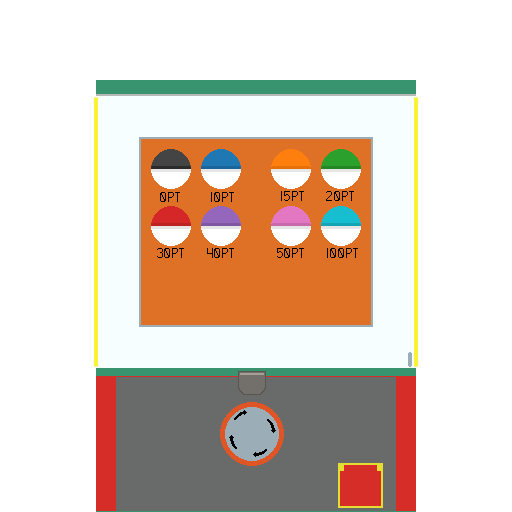
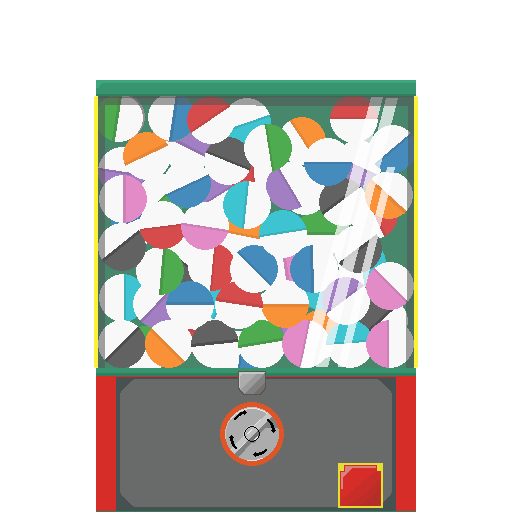
Added Gachapon instead of wheel

Changed region(s): [[0.1875, 0.1562, 0.8125, 1.0], [0.6562, 0.9062, 0.7188, 0.9375]]

diff --git a/TheAirConHubMobileApp/TheAirConHubFrontend/src/components/games/GachaponGame.js b/TheAirConHubMobileApp/TheAirConHubFrontend/src/components/games/GachaponGame.js
@@ -1,92 +1,157 @@
 import React, { useState, useRef } from "react";
-import { View, Text, TouchableOpacity, Image, StyleSheet, Animated } from "react-native";
-import { RotateCcw } from "lucide-react-native";
-import { styles as appStyles } from "../../styles/AppStyles";
+import {
+  View,
+  Text,
+  TouchableOpacity,
+  Image,
+  StyleSheet,
+  Animated,
+  Easing,
+  Platform,
+  Dimensions
+} from "react-native";
 
-// Map values to your specific GIF files
+const screenWidth = Dimensions.get("window").width;
+const GAME_AREA_SIZE = screenWidth >= 1024 ? 350 : Math.min(300, screenWidth * 0.95);
+
 const gachaponRewards = [
-  { value: 0, image: require("../../../assets/gachapon/0pt.gif"), color: "gray" },
-  { value: 10, image: require("../../../assets/gachapon/10pt.gif"), color: "blue" },
-  { value: 15, image: require("../../../assets/gachapon/15pt.gif"), color: "orange" },
-  { value: 20, image: require("../../../assets/gachapon/20pt.gif"), color: "green" },
-  { value: 30, image: require("../../../assets/gachapon/30pt.gif"), color: "red" },
-  { value: 40, image: require("../../../assets/gachapon/40pt.gif"), color: "purple" },
-  { value: 50, image: require("../../../assets/gachapon/50pt.gif"), color: "pink" },
-  { value: 100, image: require("../../../assets/gachapon/100pt.gif"), color: "teal" },
+  { value: 0, color: "#6b7280" },
+  { value: 10, color: "#3b82f6" },
+  { value: 15, color: "#f97316" },
+  { value: 20, color: "#22c55e" },
+  { value: 30, color: "#ef4444" },
+  { value: 40, color: "#a855f7" },
+  { value: 50, color: "#ec4899" },
+  { value: 100, color: "#14b8a6" },
 ];
 
 const GachaponGame = ({ onEarnPoints, onEndGame, isPracticeMode }) => {
-  const [gameState, setGameState] = useState("ready"); // ready, spinning, dispensed
+  const [gameState, setGameState] = useState("ready");
   const [reward, setReward] = useState(null);
+  const [playCount, setPlayCount] = useState(0); 
+  
+  const knobRotation = useRef(new Animated.Value(0)).current;
 
   const handleSpin = () => {
-    if (gameState === "spinning") return;
-    
-    setGameState("spinning");
+    if (gameState !== "ready") return;
+    setPlayCount(prev => prev + 1);
+    setGameState("inserting");
 
-    // 1. Simulate the "Spinning" duration of the GachaponInsert.gif
     setTimeout(() => {
-      // 2. Determine random reward
-      const randomIndex = Math.floor(Math.random() * gachaponRewards.length);
-      const selectedReward = gachaponRewards[randomIndex];
+      setGameState("cranking");
       
-      setReward(selectedReward);
-      setGameState("dispensed");
-
-      // 3. Award points if not practice
-      if (!isPracticeMode && selectedReward.value > 0) {
-        onEarnPoints(selectedReward.value);
-      }
-    }, 3000); // Adjust this time to match the length of GachaponInsert.gif
+      Animated.timing(knobRotation, {
+        toValue: 1,
+        duration: 1500,
+        easing: Easing.out(Easing.quad),
+        useNativeDriver: true,
+      }).start(() => {
+        setGameState("opening");
+        const selectedReward = gachaponRewards[Math.floor(Math.random() * gachaponRewards.length)];
+        
+        setTimeout(() => {
+          setReward(selectedReward);
+          setGameState("dispensed");
+          if (!isPracticeMode && selectedReward.value > 0) {
+            onEarnPoints(selectedReward.value);
+          }
+        }, 1500);
+      });
+    }, 2000); 
   };
 
   const resetGame = () => {
-    setGameState("ready");
+    knobRotation.setValue(0);
     setReward(null);
+    setGameState("ready");
   };
 
+  const rotation = knobRotation.interpolate({
+    inputRange: [0, 1],
+    outputRange: ["0deg", "720deg"],
+  });
+
   return (
-    <View style={appStyles.gameCard}>
-      <Text style={appStyles.gameTitle}>Gachapon</Text>
+    <View style={localStyles.gameCard}>
+      <Text style={localStyles.gameTitle}>Gachapon</Text>
+      <Text style={localStyles.gameSubtitle}>
+        {gameState === "dispensed" ? "You won a prize!" : "Test your luck for bonus points!"}
+      </Text>
 
-      <View style={localStyles.machineContainer}>
-        {/* PHASE 1: Ready to play */}
-        {gameState === "ready" && (
-          <Image source={require("../../../assets/gachapon/Gachapon.png")} style={localStyles.mainImage} />
-        )}
+      <View style={localStyles.cropContainer}>
+        <View style={localStyles.machineWrapper}>
+          {/* MODIFIED: Gachapon.png is now hidden during 'dispensed' state */}
+          {(gameState === "ready" || gameState === "cranking") && (
+            <Image
+              source={require("../../../assets/gachapon/Gachapon.png")}
+              style={localStyles.mainImage}
+            />
+          )}
 
-        {/* PHASE 2: Coin inserted and handle cranking */}
-        {gameState === "spinning" && (
-          <Image source={require("../../../assets/gachapon/GachaponInsert.gif")} style={localStyles.mainImage} />
-        )}
+          {gameState === "cranking" && (
+            <Animated.Image
+              source={require("../../../assets/gachapon/Gachapon Knob.png")}
+              style={[localStyles.knobImage, { transform: [{ rotate: rotation }] }]}
+            />
+          )}
 
-        {/* PHASE 3: Prize Dispensed */}
-        {gameState === "dispensed" && reward && (
-          <View style={localStyles.rewardContainer}>
-            <Image source={reward.image} style={localStyles.prizeImage} />
-            <Text style={localStyles.rewardText}>You got {reward.value} Points!</Text>
-          </View>
-        )}
+          {gameState === "inserting" && (
+            <Image
+              key={`coin-${playCount}`}
+              source={require("../../../assets/gachapon/Coin Insert.gif")}
+              style={localStyles.mainImage}
+            />
+          )}
+
+          {gameState === "opening" && (
+            <Image
+              key={`latch-${playCount}`}
+              source={require("../../../assets/gachapon/Latch Open.gif")}
+              style={localStyles.mainImage}
+            />
+          )}
+
+          {/* Reward shown alone when dispensed */}
+          {gameState === "dispensed" && reward && (
+            <View style={localStyles.rewardOverlay}>
+              <View style={[localStyles.pixelBox, { borderColor: reward.color }]}>
+                <Text style={[localStyles.pixelText, { color: reward.color }]}>
+                  {reward.value}
+                </Text>
+                <Text style={[localStyles.pixelSubText, { color: reward.color }]}>
+                  POINTS
+                </Text>
+              </View>
+            </View>
+          )}
+        </View>
       </View>
 
-      {/* Controls */}
       <View style={localStyles.controls}>
-        {gameState === "ready" && (
-          <TouchableOpacity style={appStyles.startButton} onPress={handleSpin}>
-            <Text style={appStyles.startButtonText}>Insert Coin & Spin</Text>
+        {gameState === "ready" ? (
+          <TouchableOpacity 
+            style={localStyles.coilGameStartButton} 
+            onPress={handleSpin}
+          >
+            <Text style={localStyles.coilGameStartButtonText}>Insert Coin & Spin</Text>
           </TouchableOpacity>
-        )}
-
-        {gameState === "dispensed" && (
-          <View style={localStyles.buttonRow}>
-            <TouchableOpacity style={appStyles.secondaryButton} onPress={resetGame}>
-              <RotateCcw size={16} color="#4b5563" />
-              <Text style={appStyles.secondaryButtonText}>Try Again</Text>
+        ) : gameState === "dispensed" ? (
+          <View style={localStyles.buttonColumn}>
+            <TouchableOpacity 
+              style={localStyles.coilGameStartButton} 
+              onPress={resetGame}
+            >
+              <Text style={localStyles.coilGameStartButtonText}>Try Again</Text>
             </TouchableOpacity>
-            <TouchableOpacity style={appStyles.backToHubButton} onPress={onEndGame}>
-              <Text style={appStyles.backToHubButtonText}>Exit</Text>
+            <TouchableOpacity 
+              style={localStyles.backToHubButton} 
+              onPress={onEndGame}
+            >
+              <Text style={localStyles.backToHubButtonText}>Back to Games</Text>
             </TouchableOpacity>
           </View>
+        ) : (
+          <View style={{ height: 50 }} /> 
         )}
       </View>
     </View>
@@ -94,35 +159,116 @@ const GachaponGame = ({ onEarnPoints, onEndGame, isPracticeMode }) => {
 };
 
 const localStyles = StyleSheet.create({
-  machineContainer: {
-    height: 400,
-    width: '100%',
+  gameCard: {
+    backgroundColor: "white",
+    borderRadius: 24,
+    padding: 24,
+    width: "100%",
+    maxWidth: GAME_AREA_SIZE + 48,
     alignItems: 'center',
+    alignSelf: 'center',
+  },
+  gameTitle: {
+    fontSize: 32,
+    fontWeight: "bold",
+    color: "#1F2937",
+    marginBottom: 5,
+  },
+  gameSubtitle: {
+    fontSize: 16,
+    color: "#6B7280",
+    textAlign: "center",
+    marginBottom: 10,
+  },
+  cropContainer: {
+    height: 350,
+    width: "100%",
+    overflow: 'hidden',
+    alignItems: 'center',
+  },
+  machineWrapper: {
+    marginTop: -30,
+    alignItems: 'center',
+    position: 'relative',
+    width: '100%',
+    height: '100%',
     justifyContent: 'center',
   },
   mainImage: {
-    width: 300,
-    height: 300,
-    resizeMode: 'contain',
+    width: 420,
+    height: 420,
+    resizeMode: "contain",
   },
-  rewardContainer: {
+  knobImage: {
+    position: 'absolute',
+    width: 60,   
+    height: 60,
+    top: 295, 
+    zIndex: 10,
+    resizeMode: "contain",
+  },
+  rewardOverlay: {
+    alignItems: "center",
+    justifyContent: "center",
+  },
+  pixelBox: {
+    backgroundColor: 'rgba(255, 255, 255, 0.9)',
+    borderWidth: 4,
+    padding: 24,
     alignItems: 'center',
+    justifyContent: 'center',
+    shadowColor: "#000",
+    shadowOffset: { width: 6, height: 6 },
+    shadowOpacity: 1,
+    shadowRadius: 0,
   },
-  prizeImage: {
-    width: 200,
-    height: 200,
-    resizeMode: 'contain',
-  },
-  rewardText: {
-    fontSize: 22,
+  pixelText: {
+    fontSize: 72,
     fontWeight: 'bold',
-    marginTop: 10,
-    color: '#374151',
+    fontFamily: Platform.OS === 'ios' ? 'Courier' : 'monospace', 
+    lineHeight: 72,
   },
-  buttonRow: {
-    flexDirection: 'row',
-    gap: 10,
-  }
+  pixelSubText: {
+    fontSize: 20,
+    fontWeight: 'bold',
+    fontFamily: Platform.OS === 'ios' ? 'Courier' : 'monospace',
+    letterSpacing: 2,
+  },
+  controls: {
+    width: '100%',
+    alignItems: 'center',
+    marginTop: 30, // Button is pushed lower here
+  },
+  buttonColumn: {
+    width: '100%',
+    alignItems: 'center',
+    gap: 12,
+  },
+  coilGameStartButton: {
+    backgroundColor: "#3B82F6",
+    paddingVertical: 12,
+    paddingHorizontal: 20,
+    borderRadius: 8,
+    width: "85%",
+  },
+  coilGameStartButtonText: {
+    color: "white",
+    fontWeight: "bold",
+    fontSize: 16,
+    textAlign: "center",
+  },
+  backToHubButton: {
+    backgroundColor: "#6B7280",
+    paddingVertical: 12,
+    borderRadius: 8,
+    width: "85%",
+    alignItems: "center",
+  },
+  backToHubButtonText: {
+    color: "white",
+    fontSize: 16,
+    fontWeight: "bold",
+  },
 });
 
 export default GachaponGame;

diff --git a/TheAirConHubMobileApp/TheAirConHubFrontend/src/components/games/TowerDefenseGame.js b/TheAirConHubMobileApp/TheAirConHubFrontend/src/components/games/TowerDefenseGame.js
@@ -625,11 +625,7 @@ const TowerDefenseGame = ({ onEarnPoints, onEndGame, isPracticeMode }) => {
     return (
       <View style={appStyles.gameCard}>
         <View style={appStyles.leakGameReadyContainer}>
-          <Castle
-            size={50}
-            color="#3B82F6"
-            style={appStyles.leakGameIcon}
-          />
+          <Castle size={50} color="#3B82F6" style={appStyles.leakGameIcon} />
           <Text style={appStyles.gameTitle}>A/C Tower Defense</Text>
           <Text style={appStyles.gameSubtitle}>
             Defend your system from oncoming viruses!

diff --git a/TheAirConHubMobileApp/TheAirConHubFrontend/src/config.js b/TheAirConHubMobileApp/TheAirConHubFrontend/src/config.js
@@ -1,3 +1,3 @@
 // src/config.js
 // UPDATE THIS URL whenever you restart ngrok
-export const API_URL = "https://910c7748a9ab.ngrok-free.app/api";
+export const API_URL = "https://ca7b53230bda.ngrok-free.app/api";
